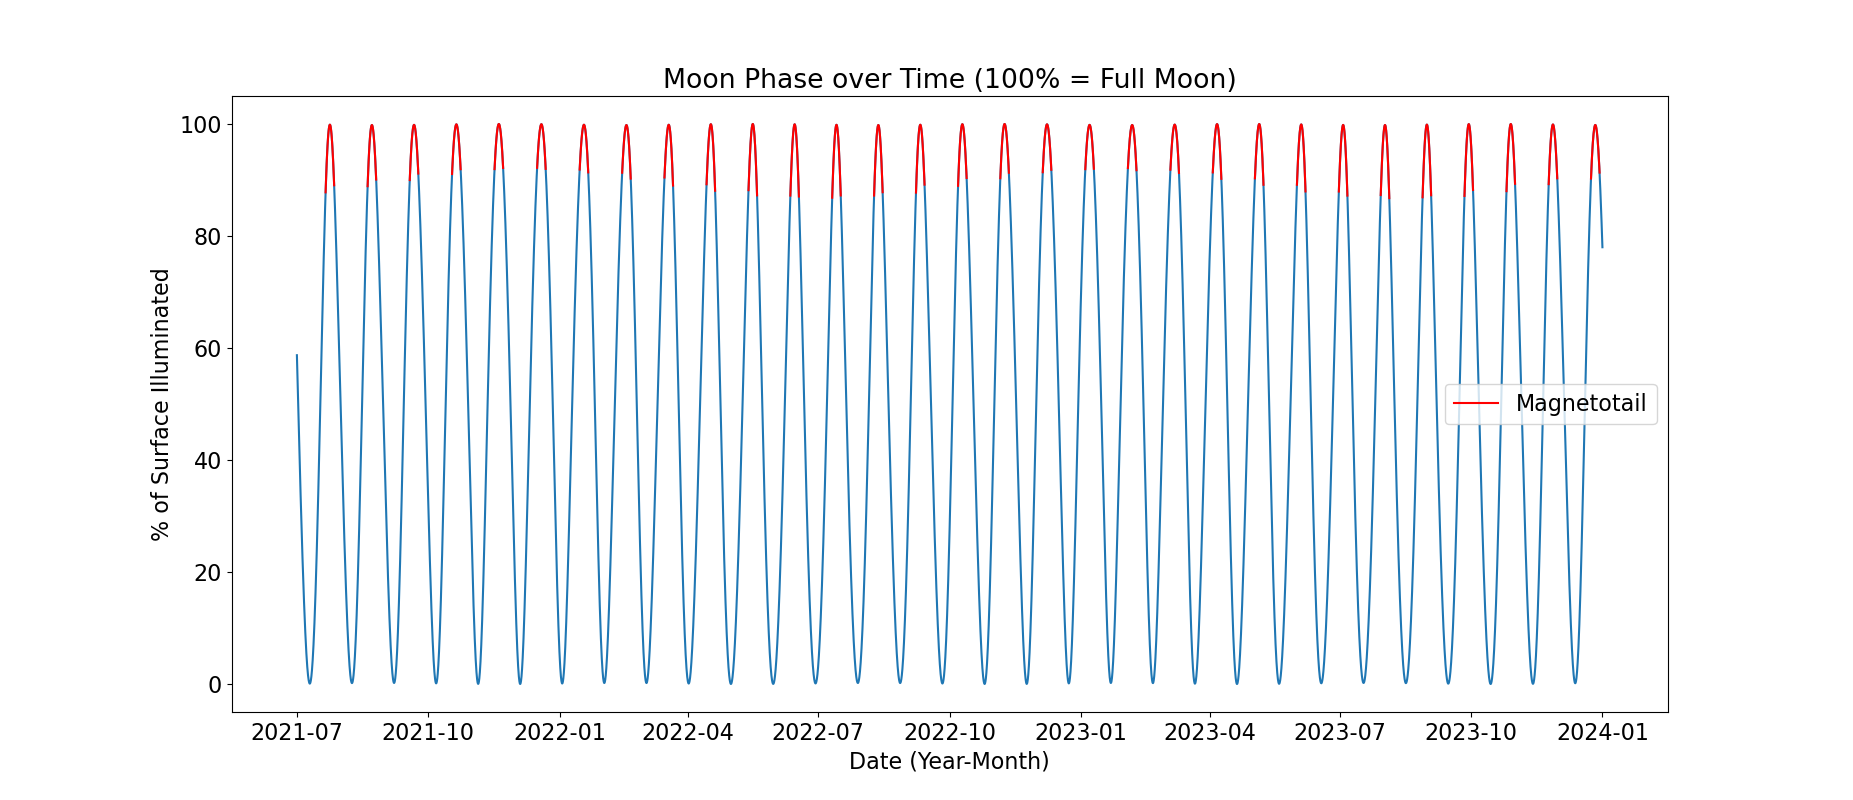
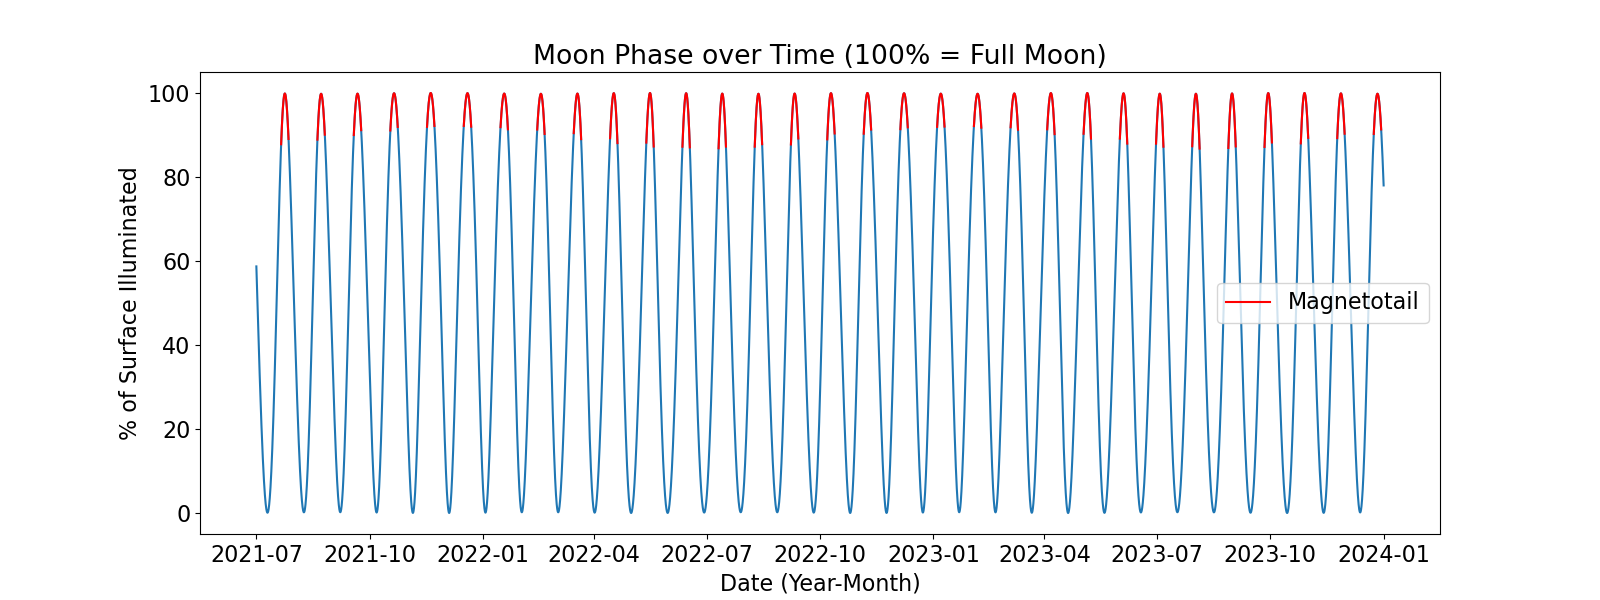
adjusted img sizes

diff --git a/main.py b/main.py
@@ -45,7 +45,7 @@ def main(start_date, end_date):
 
     #make the moon phase plot
     plt.rcParams.update({'font.size': 16})
-    fig,ax = plt.subplots(figsize=(20,8))
+    fig,ax = plt.subplots(figsize=(16,6))
     ax.plot(dates, moon_phase)
     counter = 0
     for idx in full_moon_indices:
@@ -218,7 +218,7 @@ def main(start_date, end_date):
     plt.rcParams.update({'font.size': 16})
 
     #plot of illuminance with additions
-    fig,ax = plt.subplots(figsize=(20,8))
+    fig,ax = plt.subplots(figsize=(16,6))
     ax.plot(dates, moon_phase)
     ax.plot(dates[idx_bow_arr-(3*24)], moon_phase[idx_bow_arr-(3*24)], '.', c='violet', label='3-day window before entering')
     ax.plot(dates[idx_bow_arr], moon_phase[idx_bow_arr], '.', c='gold', label='Bowshock')
@@ -230,7 +230,7 @@ def main(start_date, end_date):
     plt.show()
 
     #plot of illuminance zoomed-in on one month
-    fig,ax = plt.subplots(figsize=(20,8))
+    fig,ax = plt.subplots(figsize=(16,6))
     ax.plot(dates, moon_phase)
     ax.plot(dates[idx_bow_arr-(3*24)], moon_phase[idx_bow_arr-(3*24)], '.', c='violet', label='3-day window before entering')
     ax.plot(dates[idx_bow_arr], moon_phase[idx_bow_arr], '.', c='gold', label='Bowshock')
